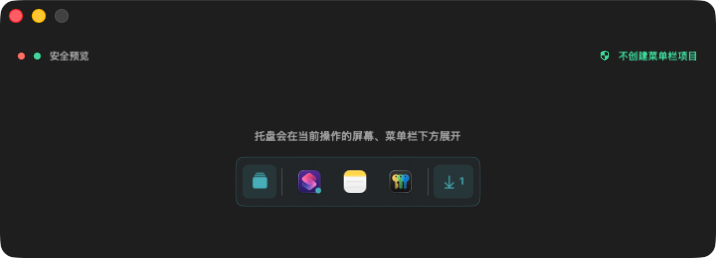
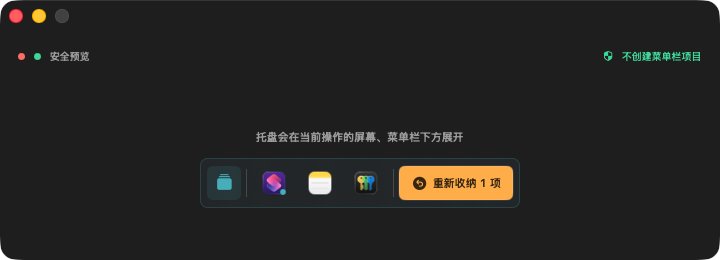
feat: clarify retuck action

Changed region(s): [[0.2765, 0.5891, 0.7374, 0.8062], [0.8296, 0.186, 0.8603, 0.2171]]

diff --git a/MacBarTuck/Panel/OverflowPanelView.swift b/MacBarTuck/Panel/OverflowPanelView.swift
@@ -24,7 +24,8 @@ struct OverflowPanelView: View {
     static let itemSlotWidth: CGFloat = 44
     private static let itemSpacing: CGFloat = 2
     private static let baseChromeWidth: CGFloat = 65
-    private static let retuckChromeWidth: CGFloat = 51
+    private static let retuckButtonWidth: CGFloat = 114
+    private static let retuckChromeWidth: CGFloat = retuckButtonWidth + 11
 
     static func preferredWidth(itemCount: Int, showsRetuck: Bool) -> CGFloat {
         let count = max(0, itemCount)
@@ -84,19 +85,26 @@ struct OverflowPanelView: View {
                     .frame(width: 1, height: 28)
 
                 Button(action: onRetuck) {
-                    HStack(spacing: 3) {
-                        Image(systemName: "arrow.down.to.line")
-                        Text("\(store.temporarilyVisibleItems.count)")
-                            .font(.system(size: 10, weight: .semibold))
+                    HStack(spacing: 5) {
+                        Image(systemName: "arrow.uturn.backward.circle.fill")
+                            .font(.system(size: 13, weight: .semibold))
+                        Text(language.text("panel.retuck.count", store.temporarilyVisibleItems.count))
+                            .font(.system(size: 11, weight: .semibold))
+                            .monospacedDigit()
+                            .lineLimit(1)
+                            .minimumScaleFactor(0.85)
                     }
-                    .foregroundStyle(MacBarTuckTheme.accentStrong)
-                    .frame(minWidth: 34, minHeight: 34)
-                    .padding(.horizontal, 3)
-                    .background(MacBarTuckTheme.accent.opacity(0.12), in: RoundedRectangle(cornerRadius: 6))
+                    .foregroundStyle(Color.black.opacity(0.78))
+                    .frame(width: Self.retuckButtonWidth, height: 34)
+                    .background(MacBarTuckTheme.retuckAction, in: RoundedRectangle(cornerRadius: 6, style: .continuous))
+                    .overlay {
+                        RoundedRectangle(cornerRadius: 6, style: .continuous)
+                            .stroke(Color.white.opacity(0.18), lineWidth: 1)
+                    }
                 }
                 .buttonStyle(.plain)
                 .help(language.text("panel.retuck"))
-                .accessibilityLabel(language.text("panel.retuck"))
+                .accessibilityLabel(language.text("panel.retuck.count", store.temporarilyVisibleItems.count))
             }
         }
         .padding(.horizontal, 7)

diff --git a/Tests/LocalizationTests.swift b/Tests/LocalizationTests.swift
@@ -78,6 +78,7 @@ private enum LocalizationTests {
             "items.visibility.temporary",
             "items.retuck_temporary",
             "panel.retuck",
+            "panel.retuck.count",
             "panel.temporary.help",
             "preferences.hover.help",
             "store.activation.retuck_progress"
@@ -105,6 +106,12 @@ private enum LocalizationTests {
         try expect(AppLanguageController.text("items.footer.count", language: .english,
                                               rootBundle: resourceBundle, arguments: [3]) == "3 Menu Items",
                    "The runtime localizer must format localized values.")
+        try expect(AppLanguageController.text("panel.retuck.count", language: .simplifiedChinese,
+                                              rootBundle: resourceBundle, arguments: [1]) == "重新收纳 1 项",
+                   "The Chinese tray action must explain what the temporary-item count means.")
+        try expect(AppLanguageController.text("panel.retuck.count", language: .english,
+                                              rootBundle: resourceBundle, arguments: [1]) == "Retuck: 1",
+                   "The English tray action must explain what the temporary-item count means.")
 
         let englishLanguage = AppLanguageController(
             defaults: UserDefaults(suiteName: "\(domain).display")!,

diff --git a/MacBarTuck/Settings/PreferencesSettingsView.swift b/MacBarTuck/Settings/PreferencesSettingsView.swift
@@ -66,9 +66,11 @@ struct PreferencesSettingsView: View {
                         Button(language.text("preferences.apply"), systemImage: "checkmark") { store.applyLayout() }
                             .disabled(!store.layoutManagementEnabled || store.selectedItems.isEmpty)
                         if !store.temporarilyVisibleItems.isEmpty {
-                            Button(language.text("panel.retuck"), systemImage: "arrow.down.to.line") {
+                            Button(language.text("panel.retuck.count", store.temporarilyVisibleItems.count),
+                                   systemImage: "arrow.uturn.backward.circle.fill") {
                                 store.retuckTemporarilyVisibleItems()
                             }
+                            .tint(MacBarTuckTheme.retuckAction)
                         }
                         Button(language.text("preferences.show_all"), systemImage: "arrow.uturn.backward") { store.setLayoutManagementEnabled(false) }
                             .disabled(!store.layoutManagementEnabled)

diff --git a/MacBarTuck/UI/MacBarTuckTheme.swift b/MacBarTuck/UI/MacBarTuckTheme.swift
@@ -13,6 +13,7 @@ enum MacBarTuckTheme {
     static let accent = Color(red: 0.34, green: 0.68, blue: 0.73)
     static let accentStrong = accent
     static let success = Color(red: 0.35, green: 0.84, blue: 0.59)
+    static let retuckAction = Color(red: 0.98, green: 0.68, blue: 0.22)
     static let warning = Color(red: 1.00, green: 0.43, blue: 0.38)
 }
 

diff --git a/README.md b/README.md
@@ -38,7 +38,7 @@ MacBarTuck 是一款开源的 macOS 菜单栏收纳工具，面向带刘海的 A
 
 ## 安装
 
-1. 打开 `MacBarTuck-0.1.11.dmg`。
+1. 打开 `MacBarTuck-0.1.12.dmg`。
 2. 将 `MacBarTuck.app` 拖入 `Applications`。
 3. 首次打开时按引导授予辅助功能和屏幕录制权限。
 4. 若 macOS 提示应用来自未识别开发者，请在 Finder 中右键应用并选择“打开”。当前开源构建使用临时签名，尚未经过 Apple 公证。
@@ -80,7 +80,7 @@ xcodebuild \
 ./scripts/run-unit-tests.sh
 ```
 
-当前基础测试集包含 371 项规则、菜单身份、图标选择、权限、交互策略、应用入口及双语资源检查。`bash scripts/run-refresh-tests.sh` 另执行 10 项 Store 调度检查及诊断日志轮换检查。系统授权及激活策略测试主要使用替身，另覆盖实际 AppKit 重复设置策略的返回行为；不修改本机授权。这些测试不能代替真实收纳和点击验收。
+当前基础测试集包含 375 项规则、菜单身份、图标选择、权限、交互策略、应用入口及双语资源检查。`bash scripts/run-refresh-tests.sh` 另执行 10 项 Store 调度检查及诊断日志轮换检查。系统授权及激活策略测试主要使用替身，另覆盖实际 AppKit 重复设置策略的返回行为；不修改本机授权。这些测试不能代替真实收纳和点击验收。
 
 构建 Debug 应用后运行中文、英文各 8 个安全界面冒烟场景：
 
@@ -94,7 +94,7 @@ xcodebuild \
 ./scripts/create-dmg.sh
 ```
 
-产物位于 `dist/MacBarTuck-0.1.11.dmg`，并附带 SHA-256 文件。
+产物位于 `dist/MacBarTuck-0.1.12.dmg`，并附带 SHA-256 文件。
 
 默认仍为临时签名。已配置 Developer ID 的发布者可以通过 `MACBARTUCK_SIGNING_IDENTITY` 指定已有身份；脚本仍兼容旧的 `BARTUCK_SIGNING_IDENTITY`。它不会创建证书、修改信任设置或执行公证。详见 [权限状态与发布签名](docs/permissions.md)。
 
@@ -113,6 +113,8 @@ xcodebuild \
 0.1.10 优先解决菜单栏抖动：直接激活不再触发布局事务；必须移出的隐藏项目只移动一次并保持临时显示，不再在菜单或弹窗关闭后立即拖回。托盘和设置页提供显式“重新收纳”，悬停展开默认关闭，主状态图标保持固定，弹簧缩放动画改为短淡入淡出；设置窗口回到前台时只复查应用状态，不再触发完整菜单扫描。
 
 0.1.11 改进托盘辨识度：第三方项目优先使用解析到的应用彩色图标，系统状态项仍使用自身菜单栏图标；应用图标增至 28 pt，系统图标保持 22 pt，固定槽位和点击区域同步扩大。面板宽度按实际图标间距与操作区计算，避免最右侧图标被分隔线裁切。
+
+0.1.12 明确“重新收纳”操作：托盘不再使用容易被误认为下载的向下箭头和孤立数字，改为琥珀色固定宽度按钮，直接显示“重新收纳 1 项”或 `Retuck: 1`；通用设置页使用相同图标、文案和颜色。
 
 录屏、麦克风、摄像头等 macOS 隐私指示器会被强制保持可见，不能设置为收纳。
 

diff --git a/docs/runtime-qa.md b/docs/runtime-qa.md
@@ -81,3 +81,14 @@
 - `0.1.11 (13)` Release 已从 DMG 更新到 `/Applications/MacBarTuck.app`；包内与安装后检查均为 `arm64`，临时签名校验通过，设置窗口和进程正常启动。
 - 安装版启动日志记录 build 13、权限 `0/2`。该进程启动后没有 `layout.begin/end` 或 `move.*`，只设置一次宽度为 0 的静止分隔项，没有移动真实菜单栏项目。
 - 当前临时签名权限边界沿用 0.1.10：在安装版重新获得两项授权前，真实第三方彩色图标、隐藏项点击、重新收纳以及主屏/扩展屏端到端体验保持 `partial`。
+
+## 0.1.12 重新收纳按钮
+
+日期：2026-09-11。
+
+- 新增 `panel.retuck.count` 中英文格式检查，旧资源因缺少该 key 先失败，补充实现后通过；基础测试现为 375 项，刷新隔离 10 项与诊断日志轮换继续通过。
+- Apple Silicon Debug 构建通过；Debug 与 DMG 内 Release 应用分别完成中文、英文各 8 个安全界面场景，共两轮 16 场景通过。
+- 中英文托盘和通用页截图由最终安装版 `0.1.12 (14)` 重新生成。目检确认琥珀色“重新收纳 1 项”/`Retuck: 1` 按钮无截断，回转图标不再呈现下载语义，右侧边框及应用图标无裁切。
+- DMG 内与 `/Applications/MacBarTuck.app` 均为 `0.1.12 (14)`、仅 `arm64`，临时签名有效；安装版可执行文件与 DMG 内文件 SHA-256 一致。
+- 安装版启动日志显示权限 `0/2`。手动点击一次“重新扫描”后只新增观察性刷新，当前进程保持 `layout=0`、`move=0`，没有触发菜单栏位置变化。
+- 因当前安装版尚未重新获得辅助功能和屏幕录制权限，真实临时项目的按钮计数、点击重新收纳及主屏/扩展屏结果仍为 `partial`；安全预览只验证视觉和本地化，不替代真实操作。

diff --git a/docs/interface-refresh.md b/docs/interface-refresh.md
@@ -28,3 +28,10 @@
 - 应用图标使用 28 pt，系统图标使用 22 pt；固定槽位增至 44 pt，点击高度增至 40 pt，面板高度增至 56 pt。
 - 运行面板和安全预览共用内容宽度计算，包含项目间距、外边距、分隔线和重新收纳按钮。第一版截图暴露的最右图标裁切已通过修正后的中英文截图复查。
 - 预览使用本机 macOS 自带应用图标验证原色渲染，不将这些样例伪装成真实扫描结果；设置页仍显示实际菜单栏截图，避免改变扫描状态的含义。
+
+## 0.1.12 重新收纳操作
+
+- 删除容易被误认为下载的 `arrow.down.to.line` 与孤立计数，改用 `arrow.uturn.backward.circle.fill` 表达返回收纳区。
+- 托盘按钮直接显示本地化动作和数量；中文为“重新收纳 %d 项”，英文为 `Retuck: %d`。同一文案也用于辅助功能标签和通用设置页。
+- 使用琥珀色填充与深色文字，将“收回临时显示项目”与青色常规操作、红色错误状态区分开。
+- 按钮宽度固定为 114 pt，面板宽度公式同步增加对应操作区；计数和语言变化不会推动图标槽位，长文本仍保留单行缩放边界。

diff --git a/design-qa.md b/design-qa.md
@@ -45,3 +45,7 @@ preferences.png 已更新为 0.1.4 实际安装版窗口，展示“应用”分
 ## 0.1.11 补充
 
 托盘预览改为第三方项目优先显示应用原色图标，应用图标为 28 pt、系统图标为 22 pt，固定槽位为 44 pt。中英文截图均确认图标完整、分隔线不遮挡内容、临时显示圆点和重新收纳按钮不改变槽位尺寸。安全预览不证明真实授权环境中的第三方图标解析或双屏点击结果，相关边界见 docs/runtime-qa.md。
+
+## 0.1.12 补充
+
+用户截图确认旧的“向下箭头 + 1”容易被理解成下载。托盘改用回转归位图标和琥珀色固定宽度按钮，中文直接显示“重新收纳 1 项”，英文显示 `Retuck: 1`；通用设置页沿用相同语义。安装版中英文截图确认文字完整、颜色对比明确、按钮变宽后应用图标和右侧边框均未裁切。固定宽度覆盖常见数量位数，计数变化不会改变项目槽位。
